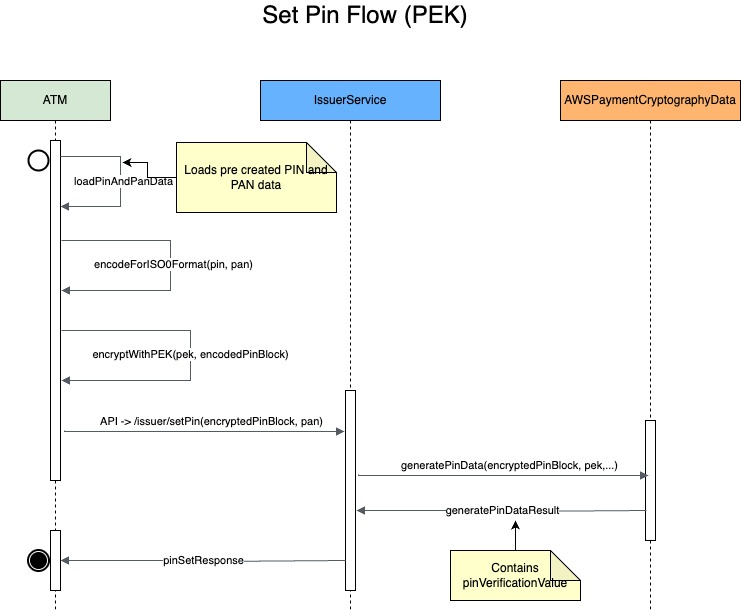
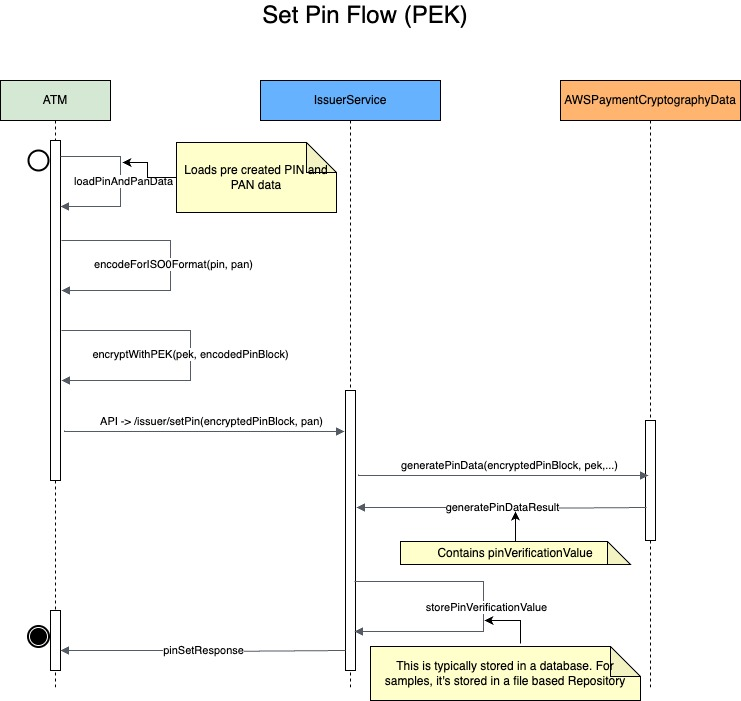
Added error handling in PaymentProcessorService. Updated Readme and flow diagram.

diff --git a/java_sdk_example/src/main/java/aws/sample/paymentcryptography/pin/IssuerService.java b/java_sdk_example/src/main/java/aws/sample/paymentcryptography/pin/IssuerService.java
@@ -51,23 +51,26 @@ public class IssuerService {
 
         try {
             VisaPinVerificationValue pinVerificationValue = new VisaPinVerificationValue()
-                .withEncryptedPinBlock(encryptedPinBLock)
-                .withPinVerificationKeyIndex(ServiceConstants.PIN_VERIFICATION_KEY_INDEX);
-        PinGenerationAttributes attributes = new PinGenerationAttributes()
-                .withVisaPinVerificationValue(pinVerificationValue);
-        GeneratePinDataRequest request = new GeneratePinDataRequest()
-                .withGenerationKeyIdentifier(pinValidationKeyAlias.getKeyArn())
-                .withEncryptionKeyIdentifier(issuerPekAlias.getKeyArn())
-                .withPrimaryAccountNumber(pan)
-                .withPinBlockFormat(ServiceConstants.ISO_0_PIN_BLOCK_FORMAT)
-                .withGenerationAttributes(attributes);
+                    .withEncryptedPinBlock(encryptedPinBLock)
+                    .withPinVerificationKeyIndex(ServiceConstants.PIN_VERIFICATION_KEY_INDEX);
+            PinGenerationAttributes attributes = new PinGenerationAttributes()
+                    .withVisaPinVerificationValue(pinVerificationValue);
+            GeneratePinDataRequest request = new GeneratePinDataRequest()
+                    .withGenerationKeyIdentifier(pinValidationKeyAlias.getKeyArn())
+                    .withEncryptionKeyIdentifier(issuerPekAlias.getKeyArn())
+                    .withPrimaryAccountNumber(pan)
+                    .withPinBlockFormat(ServiceConstants.ISO_0_PIN_BLOCK_FORMAT)
+                    .withGenerationAttributes(attributes);
 
-        Logger.getGlobal().info("IssuerService:setPinData Attempting to set PIN thru AWS Cryptography Service via encrypted PIN Block - " + encryptedPinBLock);
-        GeneratePinDataResult result = client.generatePinData(request);
-        response.put("status", "ok");
-        Logger.getGlobal().info("IssuerService:setPinData Set PIN Data successful for encrypted PIN Block " + encryptedPinBLock);
-        getRepository().addEntry(pan, result.getPinData().getVerificationValue());
-        } catch(Exception exception) {
+            Logger.getGlobal().info(
+                    "IssuerService:setPinData Attempting to set PIN thru AWS Cryptography Service via encrypted PIN Block - "
+                            + encryptedPinBLock);
+            GeneratePinDataResult result = client.generatePinData(request);
+            response.put("status", "ok");
+            Logger.getGlobal().info(
+                    "IssuerService:setPinData Set PIN Data successful for encrypted PIN Block " + encryptedPinBLock);
+            getRepository().addEntry(pan, result.getPinData().getVerificationValue());
+        } catch (Exception exception) {
             response.put("error", exception.getMessage());
             exception.printStackTrace();
         }
@@ -76,18 +79,19 @@ public class IssuerService {
 
     @GetMapping(ServiceConstants.ISSUER_SERVICE_PIN_VERIFY_API)
     @ResponseBody
-    public String verifyPinData(@RequestParam String encryptedPin, @RequestParam String pan){
+    public String verifyPinData(@RequestParam String encryptedPin, @RequestParam String pan) {
         JSONObject response = new JSONObject();
         try {
-            VerifyPinDataResult verifyPinDataResult = verifyPinData(encryptedPin, issuerPekAlias.getKeyArn(), 
-            pinValidationKeyAlias.getKeyArn(), getRepository().getEntry(pan), ServiceConstants.ISO_0_PIN_BLOCK_FORMAT, pan);
-            if(verifyPinDataResult!=null) {
+            VerifyPinDataResult verifyPinDataResult = verifyPinData(encryptedPin, issuerPekAlias.getKeyArn(),
+                    pinValidationKeyAlias.getKeyArn(), getRepository().getEntry(pan),
+                    ServiceConstants.ISO_0_PIN_BLOCK_FORMAT, pan);
+            if (verifyPinDataResult != null) {
                 response.put("status", "valid");
-            }else {
-                response.put("status", "fail");    
+            } else {
+                response.put("status", "fail");
             }
-        return response.toString();
-        } catch(Exception exception) {
+            return response.toString();
+        } catch (Exception exception) {
             exception.printStackTrace();
             response.put("status", "fail");
         }
@@ -100,7 +104,7 @@ public class IssuerService {
 
         VisaPinVerification visaPinVerification = new VisaPinVerification();
         visaPinVerification.withPinVerificationKeyIndex(ServiceConstants.PIN_VERIFICATION_KEY_INDEX)
-                .withVerificationValue(pinVerificationValue); 
+                .withVerificationValue(pinVerificationValue);
         PinVerificationAttributes pinVerificationAttributes = new PinVerificationAttributes();
         pinVerificationAttributes.withVisaPin(visaPinVerification);
 
@@ -112,9 +116,12 @@ public class IssuerService {
                 .withPinBlockFormat(pinBlockFormat)
                 .withVerificationAttributes(pinVerificationAttributes);
 
-        Logger.getGlobal().info("IssuerService:verifyPinData Attempting to verify PIN data through AWS Cryptography Service for encrypted PIN block " + encryptedPinBlock);
+        Logger.getGlobal().info(
+                "IssuerService:verifyPinData Attempting to verify PIN data through AWS Cryptography Service for encrypted PIN block "
+                        + encryptedPinBlock);
         VerifyPinDataResult verifyPinDataResult = client.verifyPinData(verifyPinDataRequest);
-        Logger.getGlobal().info("IssuerService:verifyPinData Verification of encrypted PIN block " + encryptedPinBlock + " through AWS Cryptography Service is successful");
+        Logger.getGlobal().info("IssuerService:verifyPinData Verification of encrypted PIN block " + encryptedPinBlock
+                + " through AWS Cryptography Service is successful");
         return verifyPinDataResult;
     }
 

diff --git a/java_sdk_example/src/main/java/aws/sample/paymentcryptography/p2pe/PaymentProcessorService.java b/java_sdk_example/src/main/java/aws/sample/paymentcryptography/p2pe/PaymentProcessorService.java
@@ -1,14 +1,10 @@
 package aws.sample.paymentcryptography.p2pe;
 
-import java.io.UnsupportedEncodingException;
 import java.util.logging.Logger;
 
-import org.apache.commons.codec.DecoderException;
 import org.apache.commons.codec.binary.Hex;
 import org.apache.commons.lang3.RandomUtils;
-import org.bouncycastle.crypto.InvalidCipherTextException;
 import org.bouncycastle.crypto.paddings.PKCS7Padding;
-import org.json.JSONException;
 import org.json.JSONObject;
 import org.springframework.beans.factory.annotation.Autowired;
 import org.springframework.web.bind.annotation.GetMapping;
@@ -34,41 +30,54 @@ public class PaymentProcessorService {
 
     @GetMapping(ServiceConstants.PAYMENT_PROCESSOR_SERVICE_AUTHORIZE_PAYMENT_API)
     @ResponseBody
-    public String authorizePayment(@RequestParam String encryptedData, @RequestParam String ksn)
-            throws DecoderException, UnsupportedEncodingException, JSONException, InvalidCipherTextException {
-        AWSPaymentCryptographyData dataPlaneClient = DataPlaneUtils.getDataPlaneClient();
+    public String authorizePayment(@RequestParam String encryptedData, @RequestParam String ksn) {
+        try {
+            AWSPaymentCryptographyData dataPlaneClient = DataPlaneUtils.getDataPlaneClient();
 
-        DukptEncryptionAttributes dukptEncryptionAttributes = new DukptEncryptionAttributes()
-                .withKeySerialNumber(ksn)
-                .withMode(ServiceConstants.MODE);
+            DukptEncryptionAttributes dukptEncryptionAttributes = new DukptEncryptionAttributes()
+                    .withKeySerialNumber(ksn)
+                    .withMode(ServiceConstants.MODE);
 
-        EncryptionDecryptionAttributes decryptionAttributes = new EncryptionDecryptionAttributes();
-        decryptionAttributes.setDukpt(dukptEncryptionAttributes);
+            EncryptionDecryptionAttributes decryptionAttributes = new EncryptionDecryptionAttributes();
+            decryptionAttributes.setDukpt(dukptEncryptionAttributes);
 
-        DecryptDataRequest decryptDataRequest = new DecryptDataRequest();
-        decryptDataRequest.setCipherText(encryptedData);
-        decryptDataRequest.setKeyIdentifier(ServiceConstants.BDK_ALIAS);
-        decryptDataRequest.setDecryptionAttributes(decryptionAttributes);
+            DecryptDataRequest decryptDataRequest = new DecryptDataRequest();
+            decryptDataRequest.setCipherText(encryptedData);
+            decryptDataRequest.setKeyIdentifier(ServiceConstants.BDK_ALIAS);
+            decryptDataRequest.setDecryptionAttributes(decryptionAttributes);
 
-        Logger.getGlobal().info("PaymentProcessorService:authorizePayment Attempting to decrypt data " + encryptedData + " by AWS Cryptography Service");
-        DecryptDataResult decryptDataResult = dataPlaneClient.decryptData(decryptDataRequest);
+            Logger.getGlobal()
+                    .info("PaymentProcessorService:authorizePayment Attempting to decrypt data " + encryptedData
+                            + " by AWS Cryptography Service");
+            DecryptDataResult decryptDataResult = dataPlaneClient.decryptData(decryptDataRequest);
 
-        PKCS7Padding padder = new PKCS7Padding();
-        int padCount = padder.padCount(Hex.decodeHex(decryptDataResult.getPlainText()));
-        String decryptedText = decryptDataResult.getPlainText().substring(0,decryptDataResult.getPlainText().length()-padCount*2);
-        String textWithPaddingRemoved = new String(Hex.decodeHex(decryptedText));
-        JSONObject responseJsonObject = new JSONObject()
-                .put("response", textWithPaddingRemoved)
-                .put("authCode", getApprovalCode())
-                .put("response_code", getResponseCode());
+            PKCS7Padding padder = new PKCS7Padding();
+            int padCount = padder.padCount(Hex.decodeHex(decryptDataResult.getPlainText()));
+            String decryptedText = decryptDataResult.getPlainText().substring(0,
+                    decryptDataResult.getPlainText().length() - padCount * 2);
+            String textWithPaddingRemoved = new String(Hex.decodeHex(decryptedText));
+            JSONObject responseJsonObject = new JSONObject()
+                    .put("response", textWithPaddingRemoved)
+                    .put("authCode", getApprovalCode())
+                    .put("response_code", getResponseCode());
 
-        String macData = getHmacService().generateMac(responseJsonObject.toString());
+            String macData = getHmacService().generateMac(responseJsonObject.toString());
 
-        JSONObject returnJsonObject = new JSONObject()
-                .put("mac", macData)
-                .put("response", responseJsonObject.toString());
-        Logger.getGlobal().info("PaymentProcessorService:authorizePayment Finished decrypting from AWS Cryptography Service. Returning to caller - " + responseJsonObject.toString());                
-        return returnJsonObject.toString();
+            JSONObject returnJsonObject = new JSONObject()
+                    .put("mac", macData)
+                    .put("response", responseJsonObject.toString());
+            Logger.getGlobal().info(
+                    "PaymentProcessorService:authorizePayment Finished decrypting from AWS Cryptography Service. Returning to caller - "
+                            + responseJsonObject.toString());
+            return returnJsonObject.toString();
+        } catch (Exception exception) {
+            Logger.getGlobal().info(
+                    "PaymentProcessorService:authorizePayment Error occurred when decrypting from AWS Cryptography Service.");
+            JSONObject returnJsonObject = new JSONObject()
+                    .put("error", exception.getMessage());
+            exception.printStackTrace();
+            return returnJsonObject.toString();
+        }
     }
 
     public HMACService getHmacService() {

diff --git a/java_sdk_example/README.md b/java_sdk_example/README.md
@@ -33,19 +33,21 @@ export AWS_SESSION_TOKEN=wxyz....
 There are samples for 2 flows below. The flows are setup on simulated terminals such as store terminal that processes payment or ATM that can be used for pin setup or PIN terminal that does PIN verification. Prior to running the samples, you will need to start the server like below. 
 The server has services that the terminals connect to support the flows.
 
+*Note:* Intentional delays are added between each transactions (using `Thread.sleep`) in [PaymentTerminal](src/main/java/aws/sample/paymentcryptography/terminal/PaymentTerminal.java), [ATM](src/main/java/aws/sample/paymentcryptography/terminal/ATM.java) and [PinTerminal](src/main/java/aws/sample/paymentcryptography/terminal/PinTerminal.java) to make it easier to follow the flows.
+
 #### Pre Requisite
 The samples are setup to run based on keys in the [key import app](../key-import-export/import_app/apc_demo_keysetup.py). As a pre-requisite, you will need to run the key import app. Refer to [key import instructions](../key-import-export/import_app/Readme.md)
 
 #### Starting the Server
 ```
 cd samples-for-payment-cryptography-service/java_sdk_example
-./run_example.sh aws.sample.paymentcryptography.Application`
+./run_example.sh aws.sample.paymentcryptography.Application
 
 ```
 
-#### PaymentTerminal
+#### [PaymentTerminal](src/main/java/aws/sample/paymentcryptography/terminal/PaymentTerminal.java)
 
-This class is setup for P2PE flow and uses pre created DUKPT to encrypt data from PaymentTerminal to send to Payment Processor API endpoint.
+This class is setup for P2PE flow and uses pre created DUKPT to encrypt data from [PaymentTerminal](src/main/java/aws/sample/paymentcryptography/terminal/PaymentTerminal.java) to send to Payment Processor API endpoint.
 The test data is defined on [key-ksn-data.json](/java_sdk_example/test-data/sample-pek-ksn-data.json) file. For every increment of KSN counter (last 2 digits of KSN), a corresponding DUKPT has been pre-created.
 
 To run - 
@@ -55,7 +57,7 @@ cd samples-for-payment-cryptography-service/java_sdk_example
 ./run_example.sh aws.sample.paymentcryptography.terminal.PaymentTerminal
 ```
 
-#### ATM
+#### [ATM](src/main/java/aws/sample/paymentcryptography/terminal/ATM.java)
 
 This is a simulation of [ATM](src/main/java/aws/sample/paymentcryptography/terminal/ATM.java) that sets PIN through an Issuer. It uses pre setup [PIN](/java_sdk_example/test-data/sample-pin-pan.json) test
 data to create an encoded PIN block and encrypts that block using pre setup PEK. The encrypted data is then sent to the [issuer](src/main/java/aws/sample/paymentcryptography/pin/IssuerService.java) to set the PIN.
@@ -68,9 +70,9 @@ cd samples-for-payment-cryptography-service/java_sdk_example
 
 ```
 
-#### PinTerminal
+#### [PinTerminal](src/main/java/aws/sample/paymentcryptography/terminal/PinTerminal.java)
 
-This is a simulation of the terminal that accepts PIN and sends it for verification. It uses pre setup PIN data to create an encoded PIN block and encrypts that block using pres setup [PEK data](/java_sdk_example/test-data/sample-pek-ksn-data.json). The encrypted data
+This is a simulation of the [terminal](src/main/java/aws/sample/paymentcryptography/terminal/PinTerminal.java) that accepts PIN and sends it for verification. It uses pre setup PIN data to create an encoded PIN block and encrypts that block using pres setup [PEK data](/java_sdk_example/test-data/sample-pek-ksn-data.json). The encrypted data
 This class is setup for 2 flows 1/new pin setup, 2/ pin verification. The encrypted data is then sent to the [PIN translating service](src/main/java/aws/sample/paymentcryptography/pin/PaymentProcessorPinTranslateService.java) which then connects to the [Issuer](src/main/java/aws/sample/paymentcryptography/pin/IssuerService.java) to verify the PIN.
 
 To run - 

diff --git a/README.md b/README.md
@@ -2,30 +2,34 @@
 
 This repos contains samples for AWS Payment Cryptography for - key import, P2PE and Pin (set and verify) flows.
 
-Before starting, ensure that the [service is available in the region](https://aws.amazon.com/payment-cryptography/pricing/) you want to run the sample in. 
+Before starting, ensure that the [service is available in the region](https://aws.amazon.com/payment-cryptography/pricing/) you want to run the samples in.
 
-### Key Import (Pre Requisite)
-The samples are setup to run based on keys in the [key import app](key-import-export/import_app/apc_demo_keysetup.py). As a pre-requisite, you will need to run the key import app. Refer to [key import instructions](key-import-export/import_app/Readme.md)
+### Flows
 
-### Point-to-point encryption (P2PE)
+#### Key Import (Pre Requisite)
+Before running the sample application, you will need to import the required keys into AWS Cryptography Service. The samples are setup to run based on keys that will get imported thru the [key import app](key-import-export/import_app/apc_demo_keysetup.py). Refer to [key import instructions](key-import-export/import_app/Readme.md).<br>
+
+After importing the keys, refer to [readme](java_sdk_example/README.md) to run the samples.
+
+#### Point-to-point encryption (P2PE)
 This is simulated by [Payment Terminal Client](java_sdk_example/src/main/java/aws/sample/paymentcryptography/terminal/PaymentTerminal.java) which connects to [Payment Processor Service](java_sdk_example/src/main/java/aws/sample/paymentcryptography/p2pe/PaymentProcessorService.java). Refer to the [test data](java_sdk_example/test-data/sample-key-ksn-data.json) used by the terminal that contains DUKPT variant, track2 data and KSN. 
 
 Following diagram illustrates the flow - 
 
 ![P2PE Flow](flows/PaymentCryptographyServiceFlows-Payment%20Terminal%20Flow%20-%20P2PE.jpg)
 
-### PIN Flows
+#### PIN Flows
 This is simulated by [Pin Terminal Client](java_sdk_example/src/main/java/aws/sample/paymentcryptography/terminal/PaymentTerminal.java). There are 2 flows setup on the client - 
 
-#### Set Pin
+##### Set Pin
 In this flow, the [ATM](java_sdk_example/src/main/java/aws/sample/paymentcryptography/terminal/ATM.java) uses Pin Encryption Key (PEK) to set the PIN with [Issuer](java_sdk_example/src/main/java/aws/sample/paymentcryptography/pin/IssuerService.java) 
 
 Following diagram illustrates the flow - 
 
-##### Set PIN (PEK)
+###### Set PIN (PEK)
 ![Set PIN Flow - PEK](flows/PaymentCryptographyServiceFlows-Pin%20Terminal%20Set%20Pin%20Flow%20(PEK).jpg)
 
-#### Verify Pin
+##### Verify Pin
 In this flow, the [PinTerminal](java_sdk_example/src/main/java/aws/sample/paymentcryptography/terminal/PinTerminal.java) verifies the PIN via [Pin Translator](java_sdk_example/src/main/java/aws/sample/paymentcryptography/pin/PaymentProcessorPinTranslateService.java) which connect to [Issuer](java_sdk_example/src/main/java/aws/sample/paymentcryptography/pin/IssuerService.java) for verification.
 
 Following diagrams illustrate the flow - 
